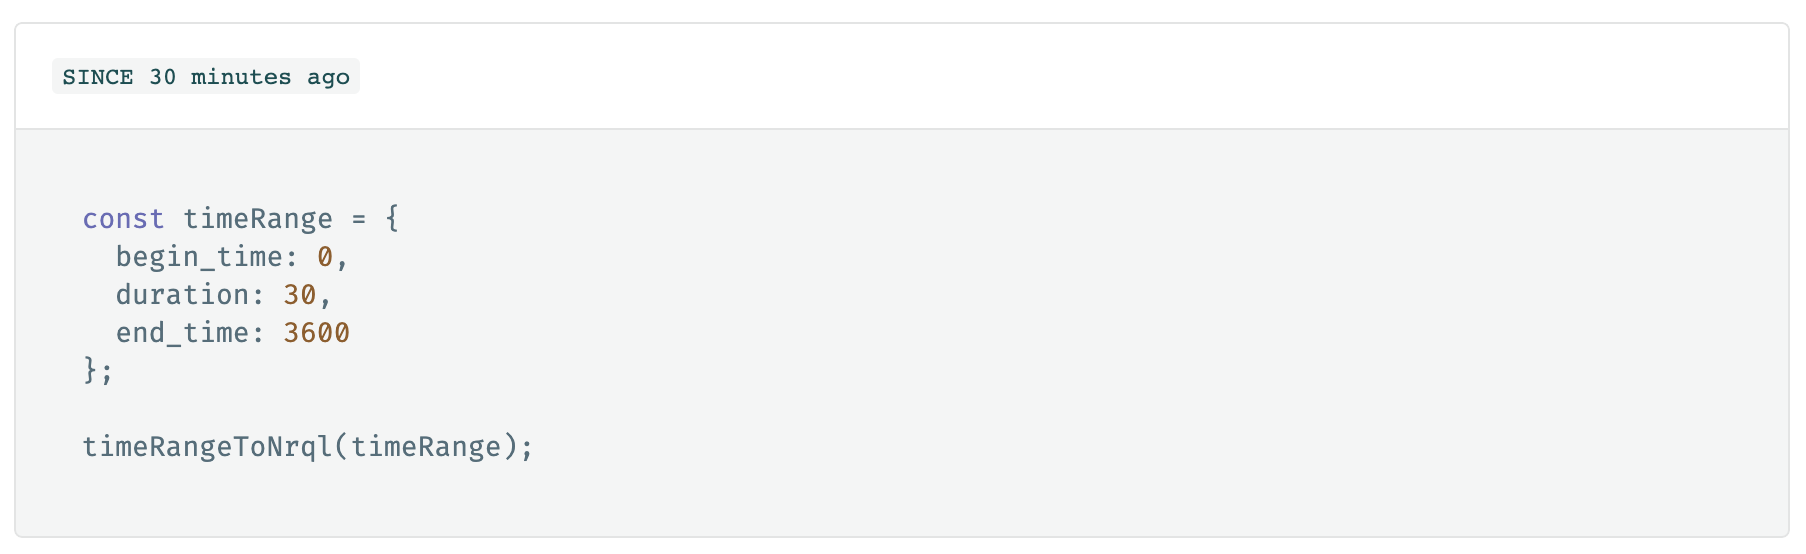
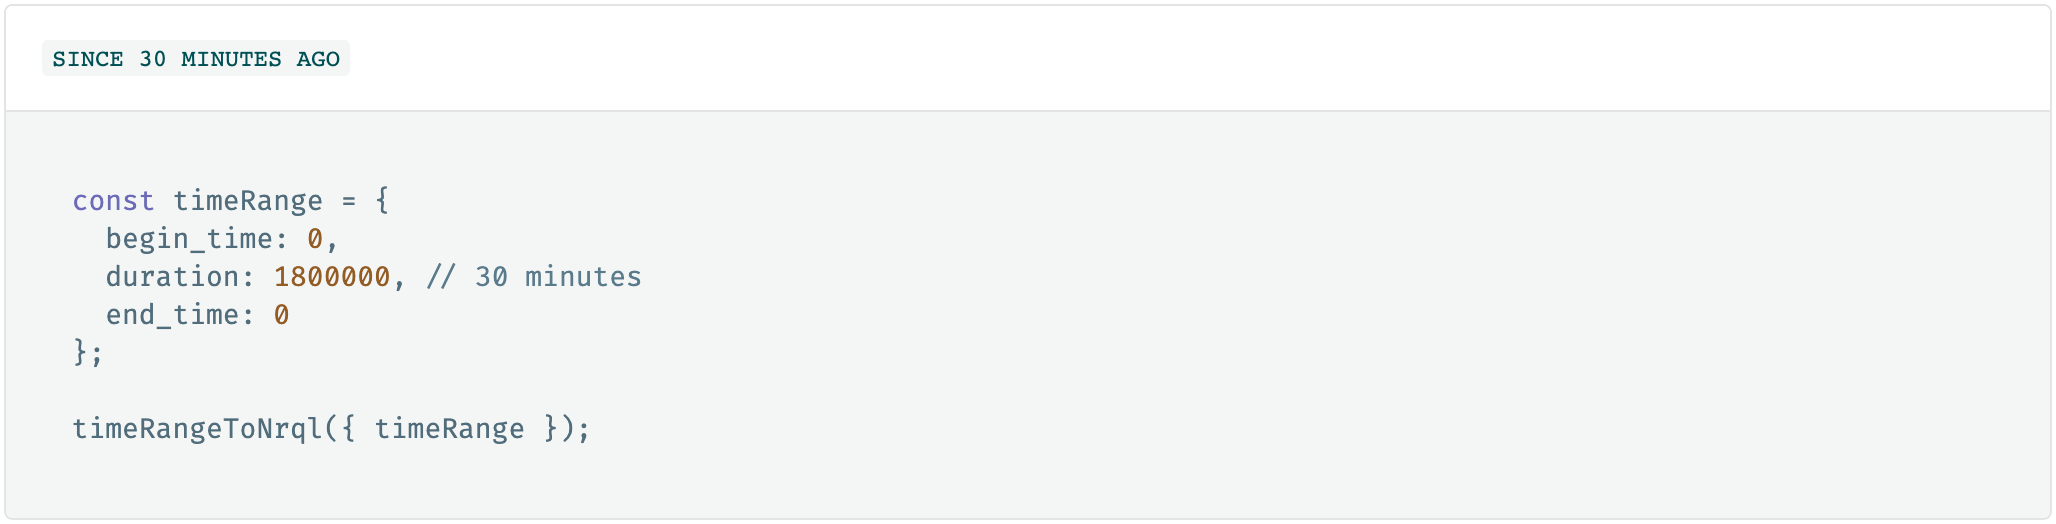
fix(timeRangeToNrql): update usage and examples (#44)
* chore: update nr1 meta info

auto-generated by nr1 cli version 1.19.3

* chore: update version in package-lock

* fix: usage of timeRangeToNrql

* feat: add better sample case and update screenshot

diff --git a/demo/nerdlets/nr1-community-demo-nerdlet/pages/timeRangeToNrql/examples/basic.js b/demo/nerdlets/nr1-community-demo-nerdlet/pages/timeRangeToNrql/examples/basic.js
@@ -14,11 +14,11 @@ export default class EmptyStateBasicDemo extends React.Component {
         {`
   const timeRange = {
     begin_time: 0,
-    duration: 30,
-    end_time: 3600
+    duration: 1800000, // 30 minutes
+    end_time: 0
   };
 
-  timeRangeToNrql(timeRange);
+  timeRangeToNrql({ timeRange });
               `}
       </Highlight>
     );
@@ -27,15 +27,15 @@ export default class EmptyStateBasicDemo extends React.Component {
   render() {
     const timeRange = {
       begin_time: 0,
-      duration: 30,
-      end_time: 3600
+      duration: 1800000, // 30 minutes
+      end_time: 0
     };
 
     return (
       <div className="example-container">
         <div className="example-container-content">
           <div className="code-result-block">
-            <code className="lowlight">{timeRangeToNrql(timeRange)}</code>
+            <code className="lowlight">{timeRangeToNrql({ timeRange })}</code>
           </div>
           {this.renderHighlight()}
         </div>

diff --git a/src/components/Funnel/index.js b/src/components/Funnel/index.js
@@ -2,7 +2,7 @@ import React from 'react';
 import PropTypes from 'prop-types';
 import get from 'lodash.get';
 import { NerdGraphQuery } from 'nr1';
-import {timeRangeToNrql} from '../../utils/timeRangeToNrql';
+import { timeRangeToNrql } from '../../utils/timeRangeToNrql';
 
 import styles from './styles.scss';
 
@@ -119,7 +119,7 @@ export class Funnel extends React.Component {
 
   _constructFunnelNrql(series) {
     const { funnel, steps, platformUrlState } = this.props;
-    const since  = timeRangeToNrql(platformUrlState);
+    const since = timeRangeToNrql({ timeRange: platformUrlState.timeRange });
     return `FROM ${funnel.event} SELECT funnel(${funnel.measure} ${steps
       .map(step => `, WHERE ${step.nrqlWhere} as '${step.label}'`)
       .join(' ')}) WHERE ${series.nrqlWhere} ${since}`;

diff --git a/src/components/AccountDropdown/find-related-accounts-with.js b/src/components/AccountDropdown/find-related-accounts-with.js
@@ -25,7 +25,7 @@ export default async function findRelatedAccountsWith({
     end_time: 0
   };
 
-  const timeRangeNrql = timeRangeToNrql(timeWindow);
+  const timeRangeNrql = timeRangeToNrql({ timeRange: timeWindow });
   const { data: accounts = [], errors } = await accountsWithData({
     eventTypes
   });

diff --git a/src/utils/timeRangeToNrql/README.md b/src/utils/timeRangeToNrql/README.md
@@ -18,7 +18,7 @@ import { timeRangeToNrql } from '@newrelic/nr1-community';
 // Often provided by the PlatformState provider
 const timeRange = {
   begin_time: 0,
-  duration: 0,
+  duration: 1800000, // 30 minutes
   end_time: 0
 };
 
